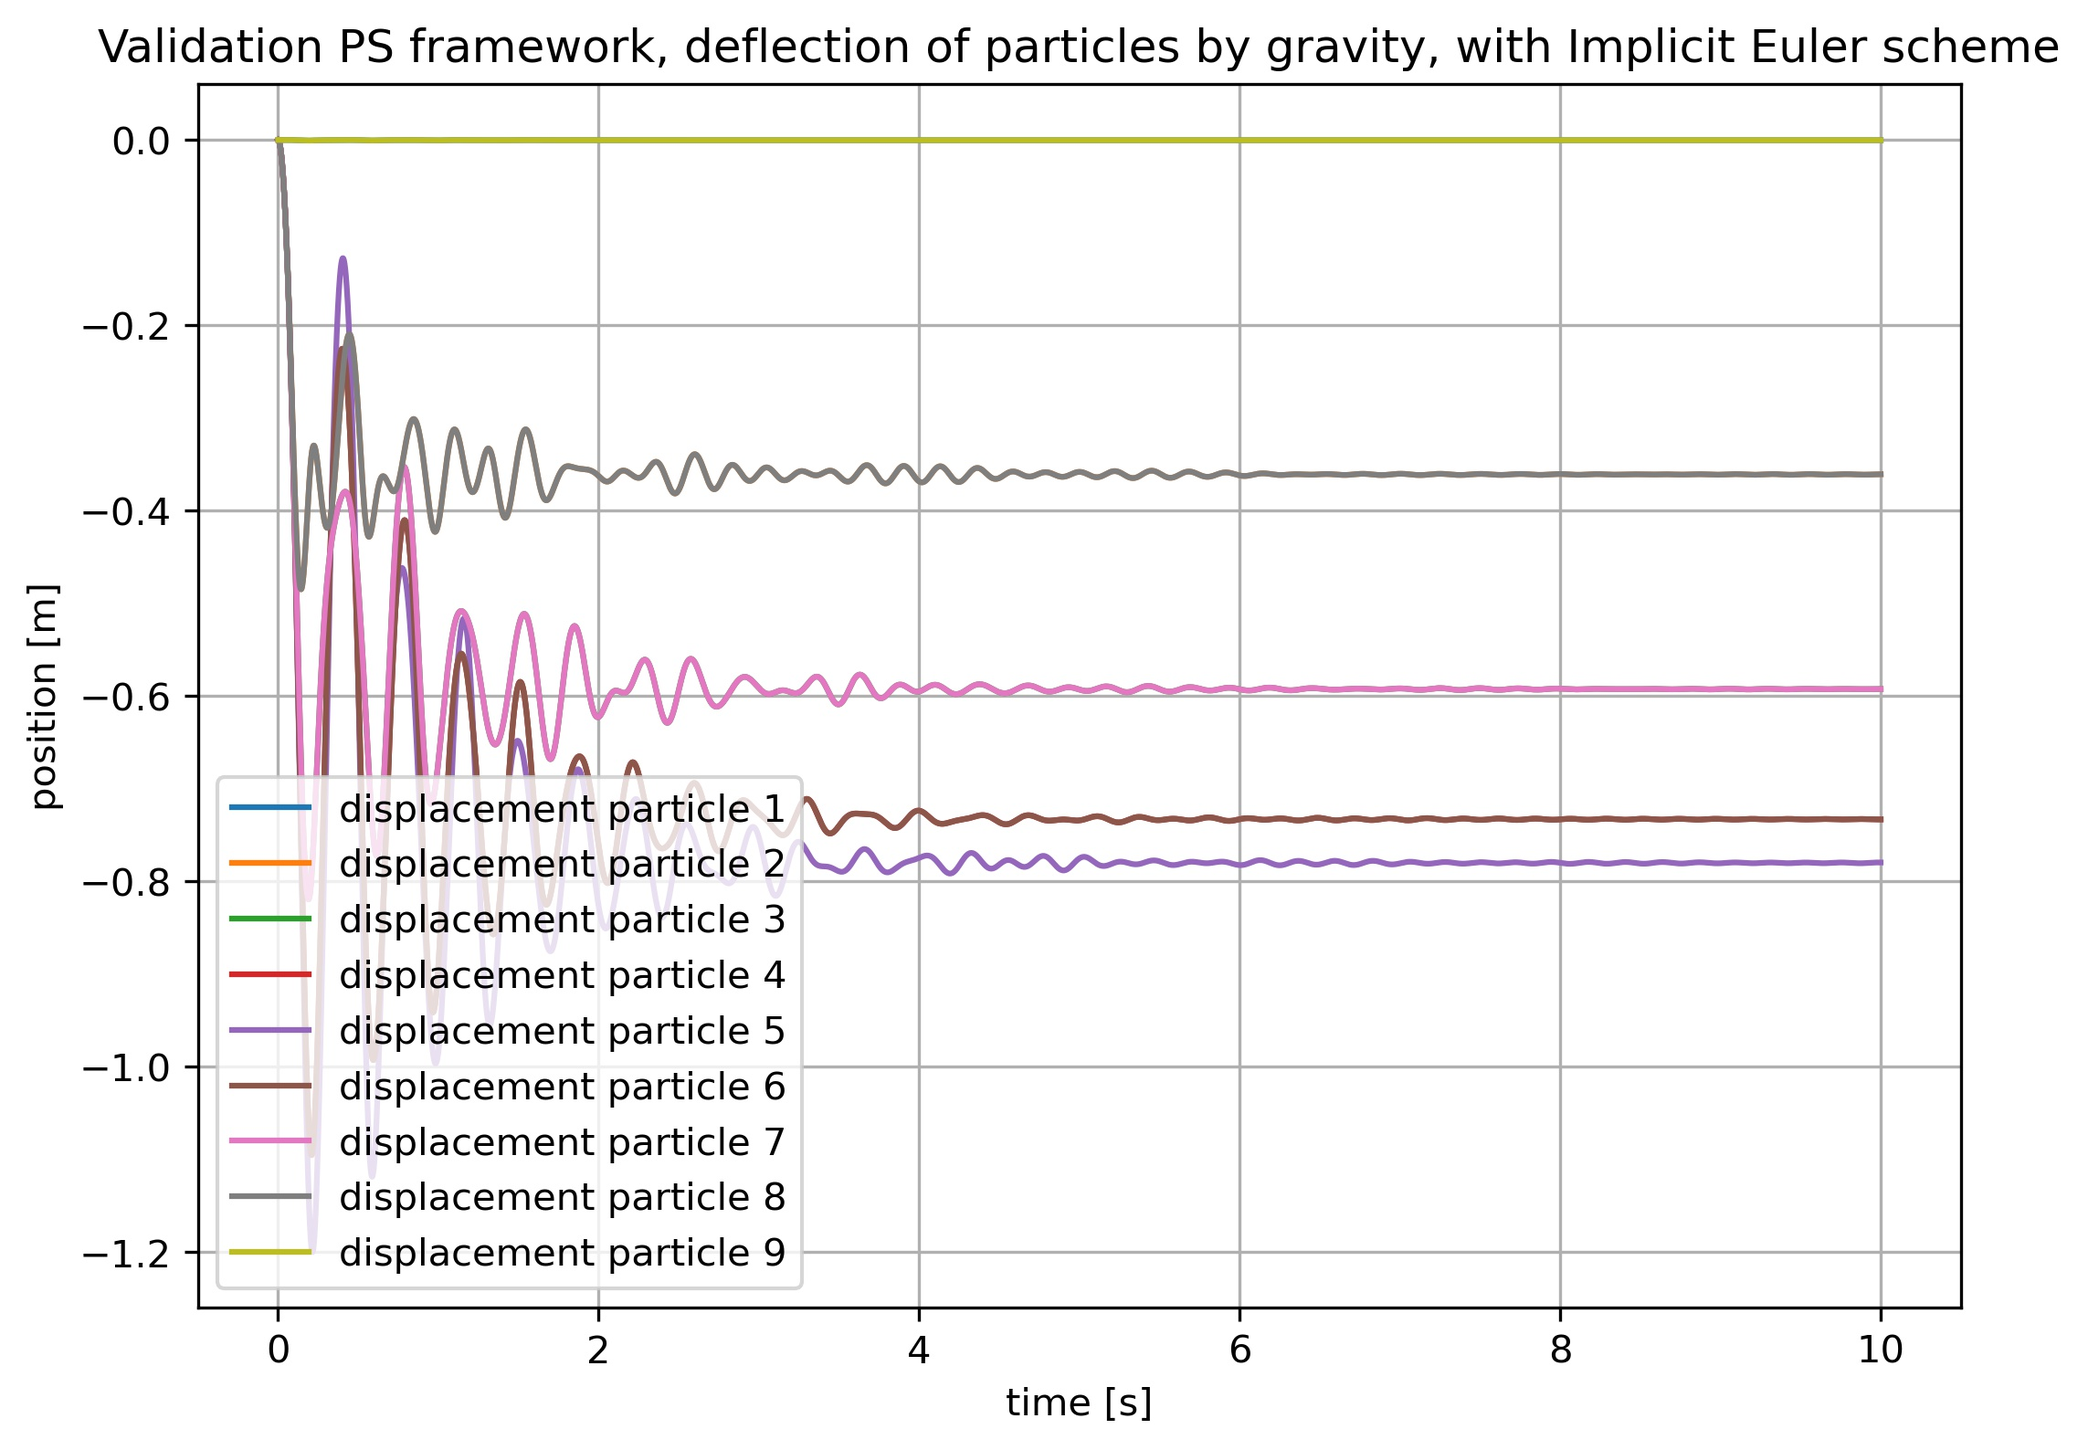
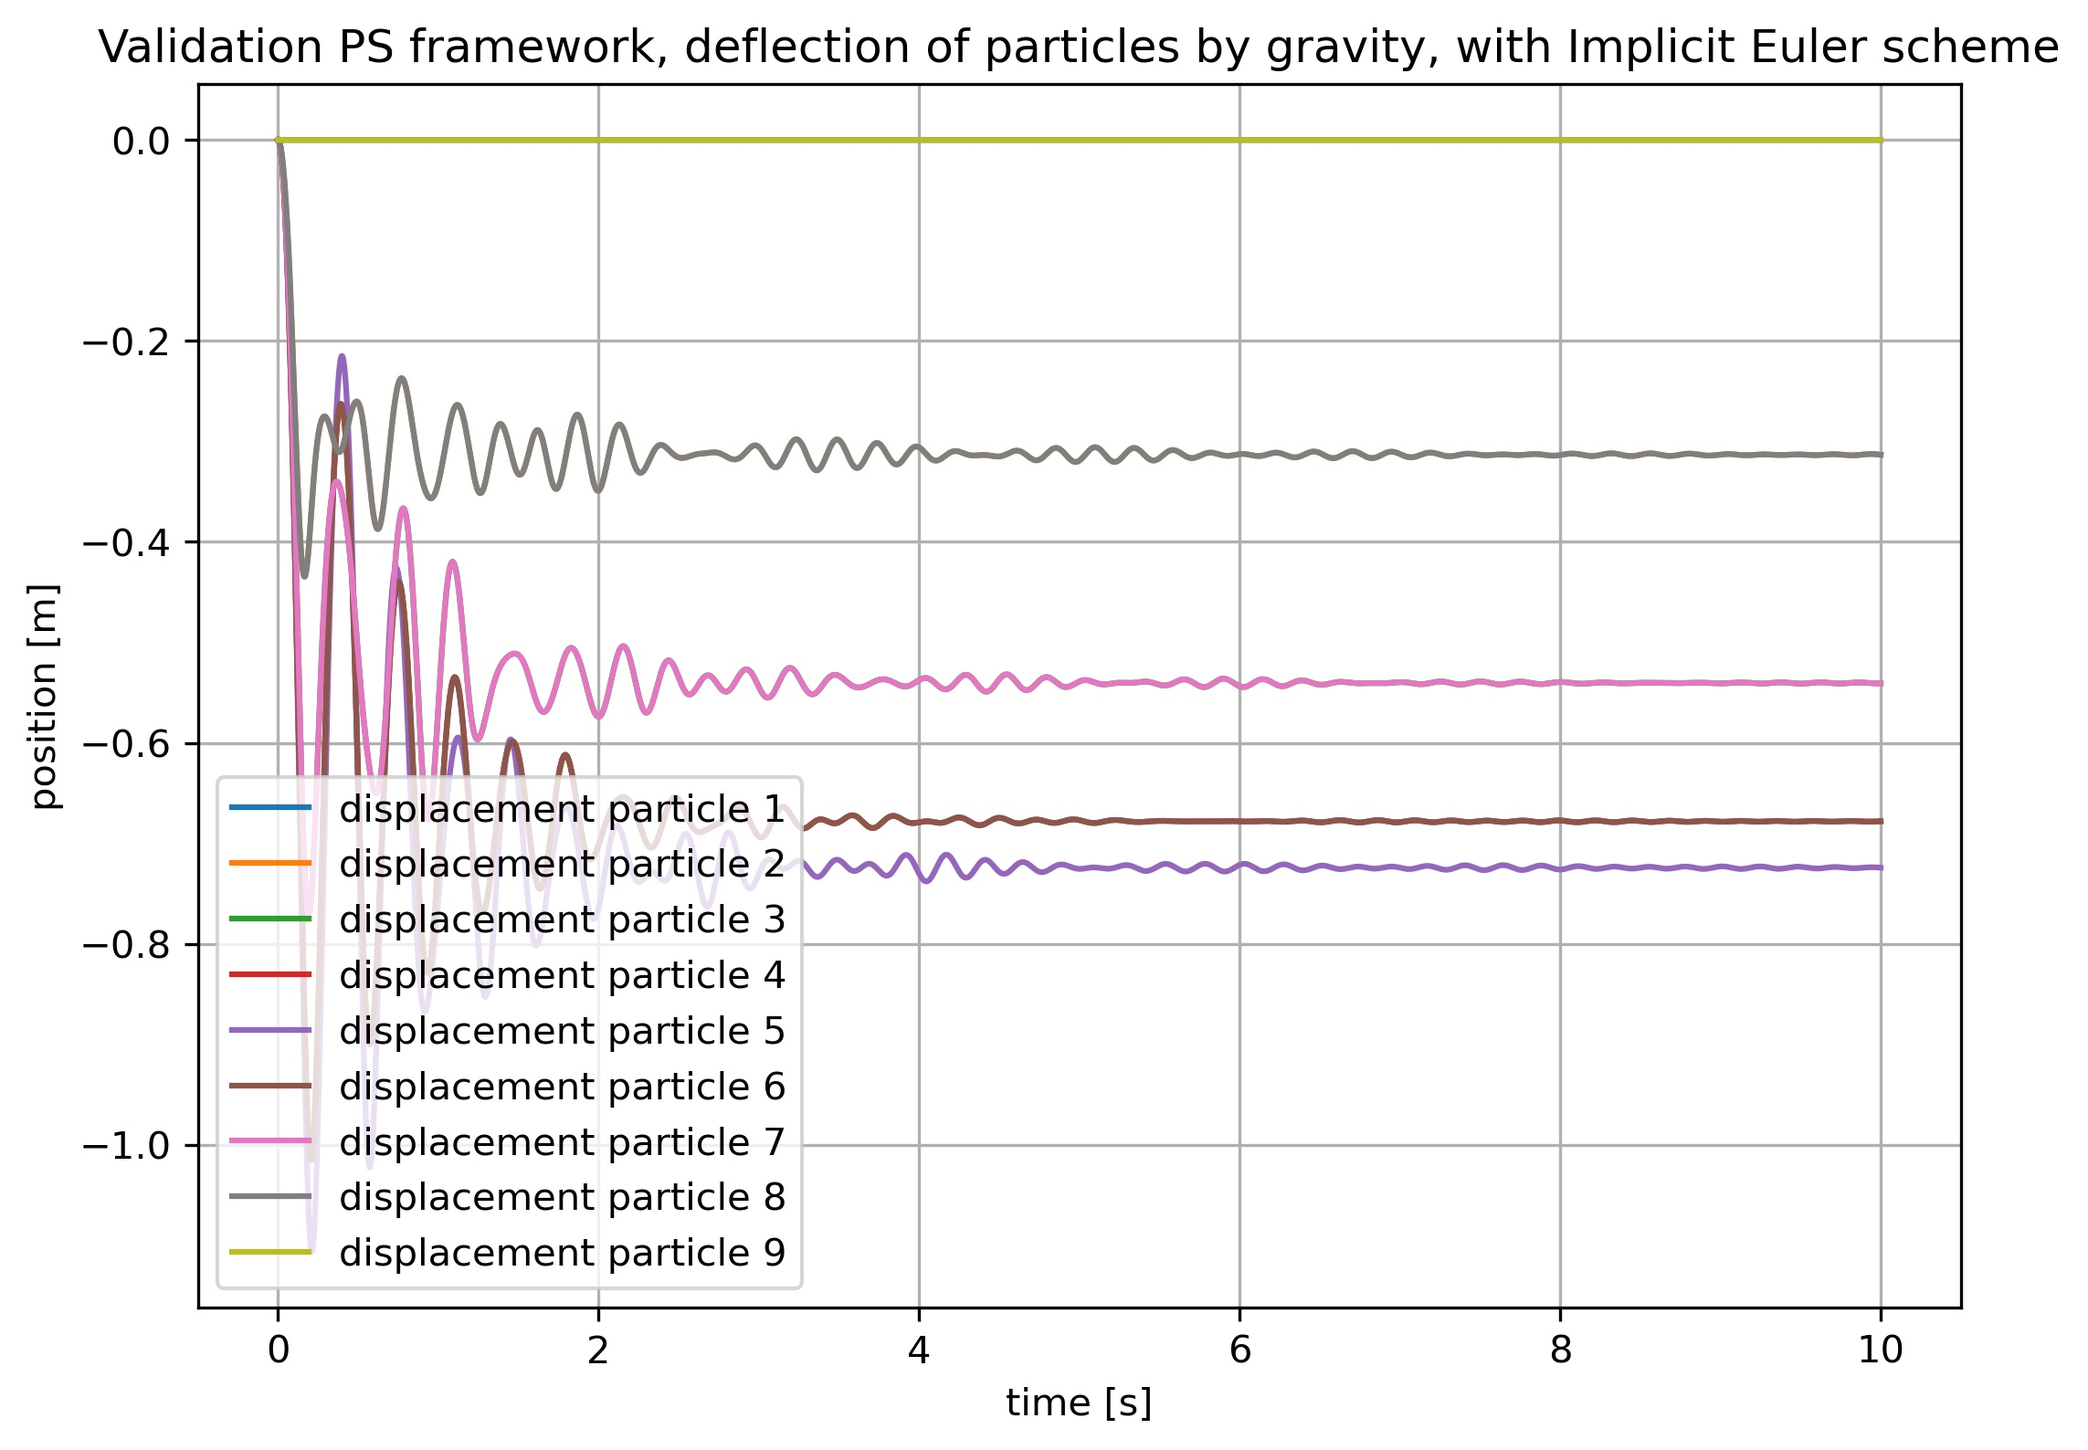
Corrected error in A x = b matrix calcs, began work on system Energy, added catenary line equation
A x = b matrix included calculations of fixed particles, which gave faulty results. New code zeroes out columns for particles that are fixed, which to give correct results.  Improved readability of graphical results by setting colors of analytical particle solutions equivalent to the simulated result. Added analytical solution for tether deflected by gravity, i.e. calculating the catenary line.

diff --git a/code_Verification/damping_force/damping_force.py b/code_Verification/damping_force/damping_force.py
@@ -11,6 +11,8 @@ from scipy.integrate import solve_ivp
 import sys
 from Msc_Alexander_Batchelor.src.particleSystem.ParticleSystem import ParticleSystem
 
+from Msc_Alexander_Batchelor.src.AnalysisModules.SystemEnergy import system_energy
+
 
 def instantiate_ps():
     return ParticleSystem(input.c_matrix, input.init_cond, input.params)
@@ -56,23 +58,67 @@ def exact_solution(t_vector: npt.ArrayLike):
     return ivp_solution, decay
 
 
+def s_energy(pos, vel, t_vector):
+    k = input.params['k']
+    c = input.params['c']
+    dt = t_vector[1]
+    m = input.init_cond[1][-2]
+
+    # Elastic potential
+    ep = 0.5 * k * pos**2
+
+    # # Gravitational potential
+    # gp = m * g * h                # gravity not included in this test case
+
+    # Kinetic energy
+    ke = 0.5 * m * vel**2
+
+    # Energy dissipated by friction
+    ed = pd.DataFrame(index=t_vector, columns={'ed': np.zeros(len(t_vector))})
+    ed.iloc[0] = 0
+    for i in range(1, len(t_vector)):
+        ed.iloc[i] = c * dt * abs(vel.iloc[i]**2 - vel.iloc[i - 1]**2)
+
+    # Total system energy
+    total_energy = ep['x'] + ke['v'] - ed['ed']
+
+    # print("ep:", ep)
+    # print("ke:", ke)
+    # print("ed:", ed)
+    # print("te:", total_energy)
+
+    return total_energy
+
+
 def plot(psystem: ParticleSystem):          # visualization of simulation and analytical results
 
     # time vector for simulation loop, data storage and plotting
-    t_vector = np.linspace(input.params["dt"], input.params["t_steps"] * input.params["dt"], input.params["t_steps"] + 1)
+    dt = input.params['dt']
+    t_steps = input.params["t_steps"]
+    t_vector = np.linspace(0,  t_steps * dt, t_steps)
 
     # DataFrames as storage method of choice
     x = {"x": np.zeros(len(t_vector), )}
     v = {"v": np.zeros(len(t_vector), )}
     position = pd.DataFrame(index=t_vector, columns=x)
     velocity = pd.DataFrame(index=t_vector, columns=v)
+    sys_en = pd.DataFrame(index=t_vector, columns={'SE': np.zeros(len(t_vector))})
+    v_prev = np.zeros(input.params['n'] * 3)
 
     # addition of (constant) external forces
     f_ext = np.zeros(input.params['n'] * 3, )
 
     for step in t_vector:          # propagating the simulation for each timestep and saving results
+        sys_en.loc[step] = system_energy(psystem, input.params, v_prev)
         x_next, v_next = psystem.simulate(f_ext)
         position.loc[step], velocity.loc[step] = x_next[-1], v_next[-1]
+        v_prev = v_next
+    # print(sys_en)
+
+    # calculating system energy over time
+    energy = s_energy(position, velocity, t_vector)
+    norm_energy = energy / energy.iloc[0]
+    sys_en = sys_en / sys_en.iloc[0]
 
     # generating analytical solution for the same time vector
     exact, decay = exact_solution(t_vector)
@@ -98,11 +144,21 @@ def plot(psystem: ParticleSystem):          # visualization of simulation and an
     # Not sure if this is the smartest way to automate saving results relative to other users directories
     file_path = sys.path[1] + "/Msc_Alexander_Batchelor/code_Verification/verification_results/damping_force/"
     img_name = f"{input.params['n']}Particles-{input.params['k']}stiffness-{input.params['c']:.3f}dampingC-" \
-               f"{input.params['dt']}timestep.jpeg"
+               f"{input.params['dt']}timestep-{t_vector[-1]:.1f}s.jpeg"
     plt.savefig(file_path + img_name, dpi=300, bbox_inches='tight')
 
+    # separate plot for system energy
+    plt.figure()
+    fig = norm_energy.plot()
+    sys_en.plot(ax=fig)
+    plt.xlabel("time [s]")
+    plt.ylabel("energy [j]")
+    plt.title("System energy for test case damping force, normalized for initial system energy")
+    plt.legend(["Normalized system energy over time", "new module"])
+    plt.grid()
     plt.show()
 
+    plt.show()
     return
 
 

diff --git a/code_Validation/tether_longitudal_oscillations/tether_longitudal_oscillations.py b/code_Validation/tether_longitudal_oscillations/tether_longitudal_oscillations.py
@@ -9,7 +9,7 @@ import matplotlib.pyplot as plt
 import pandas as pd
 import sys
 from Msc_Alexander_Batchelor.src.particleSystem.ParticleSystem import ParticleSystem
-
+from Msc_Alexander_Batchelor.src.AnalysisModules.SystemEnergy import system_energy
 
 def instantiate_ps():
     return ParticleSystem(input.c_matrix, input.init_cond, input.params)
@@ -67,6 +67,8 @@ def plot(psystem: ParticleSystem):
 
     position = pd.DataFrame(index=t_vector, columns=x)
     velocity = pd.DataFrame(index=t_vector, columns=v)
+    sys_energy = pd.DataFrame(index=t_vector, columns={'E': np.zeros(len(t_vector))})
+    v_prev = np.zeros(n*3, )
 
     g = input.params["g"]
     n = input.params["n"]
@@ -75,7 +77,13 @@ def plot(psystem: ParticleSystem):
     f_ext = np.array([[0, 0, -g * m[i]] for i in range(n)]).flatten()
 
     for step in t_vector:           # propagating the simulation for each timestep and saving results
-        position.loc[step], velocity.loc[step] = psystem.simulate(f_ext)
+        sys_energy.loc[step] = system_energy(psystem, input.params, v_prev)
+        x_next, v_next = psystem.simulate(f_ext)
+        position.loc[step], velocity.loc[step] = x_next, v_next
+        v_prev = v_next
+
+    # calculating system energy over time
+    norm_energy = sys_energy / sys_energy.iloc[0]
 
     # generating analytical solution for the same time vector
     exact, decay = exact_solution(t_vector)
@@ -86,6 +94,11 @@ def plot(psystem: ParticleSystem):
         position[f"z{i + 1}"].plot()
 
     plt.plot(t_vector, exact)
+
+    for i in range(n - 1):      # setting particle colors equivalent to their analytical solution
+        color = plt.gca().lines[i].get_color()
+        plt.gca().lines[i + n - 1].set_color(color)
+
     plt.xlabel("time [s]")
     plt.ylabel("position [m]")
     plt.title("Validation PS framework, longitudal oscillations of particles with Implicit Euler scheme")
@@ -100,9 +113,17 @@ def plot(psystem: ParticleSystem):
     # Not sure if this is the smartest way to automate saving results relative to other users directories
     file_path = sys.path[1] + "/Msc_Alexander_Batchelor/code_Validation/benchmark_results/" \
                               "tether_longitudal_oscillations/"
-    img_name = f"{input.params['n']}Particles-{input.params['k']}stiffness-{input.params['c']}damping_coefficient-" \
+    img_name = f"{input.params['n']}Particles-{input.params['k']:.3f}stiffness-{input.params['c']:.3f}damping_coefficient-" \
                f"{input.params['dt']}timestep-{input.params['t_steps']}steps.jpeg"
     plt.savefig(file_path + img_name, dpi=300, bbox_inches='tight')
+
+    # separate plot for system energy
+    norm_energy.plot()
+    plt.xlabel("time [s]")
+    plt.ylabel("energy [j]")
+    plt.title("System energy for test case damping force, normalized for initial system energy")
+    plt.legend(["Normalized system energy over time"])
+    plt.grid()
 
     plt.show()
 

diff --git a/code_Validation/tether_deflection_gravity/tether_deflection_gravity.py b/code_Validation/tether_deflection_gravity/tether_deflection_gravity.py
@@ -62,32 +62,17 @@ def generate_animation(pos, n: int, t: npt.ArrayLike):
         return
 
 
-def exact_solution(t_vector: npt.ArrayLike):
-    # analytical steady state solution for particles position
-    k = input.params["k"]
-    c = input.params["c"]
-    n = input.params["n"]
-    m = [input.init_cond[i][-2] for i in range(n)]
+def analytical_solution(sag: float):
+    # catenary line equation analytical solution
 
-    omega = np.sqrt(k / m)
-    dx = 0
-    exact_x = [np.ones(len(t_vector)) * dx[i] for i in range(n)]
+    L = input.params['L']
+    h = abs(sag)
+    a = (0.25 * L**2 - h**2)/(2*h)
+    x = np.linspace(0, L, 1000)
+    y = a*np.cosh((x-0.5*L)/a)      # included shift of curve 0.5*L to the right
+    y -= y[0]                       # adjust height
 
-    # Estimated (expected) decay rate of implicit Euler scheme as a function of t
-    dt = input.params['dt']
-    decay = np.exp(-0.5 * omega ** 2 * dt * t_vector)
-
-    zeta = c/(2 * omega)        # critical damping faction
-
-    # Analytical solution depends on value of zeta
-    if zeta <1:
-        print("system is underdamped")
-    elif zeta == 1:
-        print("system is critically damped")
-    else:
-        print("system is overdamped")
-
-    return exact_x, decay
+    return x, y
 
 
 def plot(psystem: ParticleSystem):
@@ -115,11 +100,11 @@ def plot(psystem: ParticleSystem):
         position.loc[step], velocity.loc[step] = psystem.simulate(f_ext)
 
     # generate animation of results, requires smarter configuration to make usable on other PCs
-    generate_animation(position, n, t_vector)   # messes up following plot
+    # generate_animation(position, n, t_vector)
 
     # generating analytical solution for the same time vector
-    # exact, decay = exact_solution(t_vector)
-
+    x, y = analytical_solution(min(position.iloc[-1]))
+    plt.figure(0)
     # plotting & graph configuration
     for i in range(n):
         position[f"z{i + 1}"].plot()
@@ -141,6 +126,18 @@ def plot(psystem: ParticleSystem):
                f"{input.params['dt']}timestep-{input.params['t_steps']}steps.jpeg"
     plt.savefig(file_path + img_name, dpi=300, bbox_inches='tight')
 
+    # plot of end state simulation vs analytical solution
+    plt.figure(1)
+    simx = []
+    simy = []
+    for i in range(n):
+        simx.append(position[f"x{i + 1}"].iloc[-1])
+        simy.append(position[f"z{i + 1}"].iloc[-1])
+
+    plt.plot(simx, simy, lw=2)
+    plt.plot(x, y)
+    plt.grid()
+    plt.legend(["Simulation final state particles", "Calculated catenary line"])
     plt.show()
 
     return
@@ -150,3 +147,4 @@ if __name__ == "__main__":
     ps = instantiate_ps()
 
     plot(ps)
+

diff --git a/src/particleSystem/ParticleSystem.py b/src/particleSystem/ParticleSystem.py
@@ -94,6 +94,12 @@ class ParticleSystem:
         A = self.__m_matrix - self.__dt * jv - self.__dt ** 2 * jx
         b = self.__dt * f + self.__dt ** 2 * np.matmul(jx, v_current)
 
+        for i in range(self.__n):
+            if self.__particles[i].fixed:
+                A[i * 3: (i + 1) * 3] = 0        # zeroes out row i to i + 3
+                A[:, i * 3: (i + 1) * 3] = 0     # zeroes out column i to i + 3
+                b[i * 3: (i + 1) * 3] = 0        # zeroes out row i
+
         # BiCGSTAB from scipy library
         dv, _ = bicgstab(A, b, tol=self.__rtol, atol=self.__atol, maxiter=self.__maxiter)
         v_next = v_current + dv
@@ -127,12 +133,6 @@ class ParticleSystem:
         j = 1
         for springdamper in self.__springdampers:
             jx, jv = springdamper.calculate_jacobian()
-            # print(springdamper)
-
-            # self.__jx[i*3:i*3+3, i*3:i*3+3] += jx
-            # self.__jx[j*3:j*3+3, j*3:j*3+3] += jx
-            # self.__jx[i*3:i*3+3, j*3:j*3+3] -= jx
-            # self.__jx[j*3:j*3+3, i*3:i*3+3] -= jx
 
             self.__jx[i * 3:i * 3 + 3, i * 3:i * 3 + 3] += jx
             self.__jx[j * 3:j * 3 + 3, j * 3:j * 3 + 3] += jx
@@ -158,6 +158,10 @@ class ParticleSystem:
     @property
     def particles(self):            # Temporary solution to calculate external aerodynamic forces
         return self.__particles
+
+    @property
+    def springdampers(self):
+        return self.__springdampers
 
 
 if __name__ == "__main__":

diff --git a/src/AnalysisModules/SystemEnergy.py b/src/AnalysisModules/SystemEnergy.py
@@ -1,0 +1,45 @@
+"""
+Additional package SystemEnergy, which calculates total PS energy:
+    gravitational potential + kinetic energy + spring potential - energy dissipation by internal friction
+"""
+from Msc_Alexander_Batchelor.src.particleSystem.ParticleSystem import ParticleSystem
+import numpy as np
+import numpy.typing as npt
+from numpy import linalg as la
+
+
+def system_energy(ps: ParticleSystem, params: dict, v_prev: npt.ArrayLike):
+
+    k = params['k']
+    c = params['c']
+    g = params["g"]
+    n = params["n"]
+    dt = params["dt"]
+    l0 = params["l0"]
+
+    particles = ps.particles
+
+    # Elastic potential
+    ep = np.zeros(n - 1,)
+    for i in range(n - 1):      # loops over springs, not particles
+        ep[i] = 0.5 * k * (la.norm(particles[i].x - particles[i + 1].x) - l0) ** 2
+
+    # Kinetic energy
+    ke = np.array([0.5 * la.norm(particle.v) ** 2 for particle in particles])
+
+    # Gravitational potential
+    gp = np.array([particle.m * g * particle.x[-1] for particle in particles])
+
+    # Energy dissipated by friction
+    ed = np.array([c * dt * abs(la.norm(particles[i].v)**2 - la.norm(v_prev[i*3:(i + 1)*3])**2) for i in range(n)])
+
+    # Total system energy
+    te = sum(ep) + sum(ke) + sum(gp) - sum(ed)
+
+    # print("ep:", ep)
+    # print("ke:", ke)
+    # print("gp:", gp)
+    # print("ed:", ed)
+    # print("te:", te)
+    return te
+

diff --git a/code_Validation/tether_longitudal_oscillations/tether_longitudal_oscillations_input.py b/code_Validation/tether_longitudal_oscillations/tether_longitudal_oscillations_input.py
@@ -20,7 +20,7 @@ def initial_conditions(l0: float, n: int, m_segment: float, m_block: float):
 # dictionary of required parameters
 params = {
     # model parameters
-    "n": 5,                         # [-] number of particles
+    "n": 20,                         # [-] number of particles
     "k": 1e3,                       # [N/m] spring stiffness
     "c": 10,                         # [N s/m] damping coefficient
     "L": 10,                        # [m] tether length
@@ -28,8 +28,8 @@ params = {
     "rho_tether": 0.1,              # [kg/m] mass density tether
 
     # simulation settings
-    "dt": 0.001,                    # [s] simulation timestep
-    "t_steps": 50000,                # [-] number of simulated time steps
+    "dt": 0.01,                    # [s] simulation timestep
+    "t_steps": 10000,                # [-] number of simulated time steps
     "abs_tol": 1e-5,                # [m/s] absolute error tolerance iterative solver
     "rel_tol": 1e-4,                # [-] relative error tolerance iterative solver
     "max_iter": 1e5,                # [-] maximum number of iterations

diff --git a/code_Verification/damping_force/input_damping_force.py b/code_Verification/damping_force/input_damping_force.py
@@ -19,7 +19,8 @@ params = {
     # model parameters
     "n": 2,                         # [-] number of particles
     "k": 1e3,                       # [N/m] spring stiffness
-    "c": 2*1000**0.5,                        # [N s/m] damping coefficient
+    # "c": 2*1000**0.5,               # [N s/m] critical damping coefficient (2 * sqrt(k/m))
+    "c": 10,                        # [N s/m] damping coefficient
     "L": 0,                         # [m] tether length
 
     # simulation settings
@@ -30,7 +31,7 @@ params = {
     "max_iter": 1e5,                # [-] maximum number of iterations
 
     # physical parameters
-
+    "g": 0                          # [m/s^2] EXCLUDED gravitational acceleration
 }
 # calculated parameters
 params["l0"] = params["L"]/(params["n"]-1)

diff --git a/code_Validation/tether_deflection_windFlow/tether_deflection_windFlow.py b/code_Validation/tether_deflection_windFlow/tether_deflection_windFlow.py
@@ -131,7 +131,7 @@ def plot(psystem: ParticleSystem):
 
     g = input.params["g"]
     n = input.params["n"]
-    f_ext = np.array([[0, 0, -g] for i in range(n)]).flatten()
+    f_ext = np.array([[0, 0, 0] for i in range(n)]).flatten()
 
     for step in t_vector:           # propagating the simulation for each timestep and saving results
         f_aero = calculate_f_a(ps)
